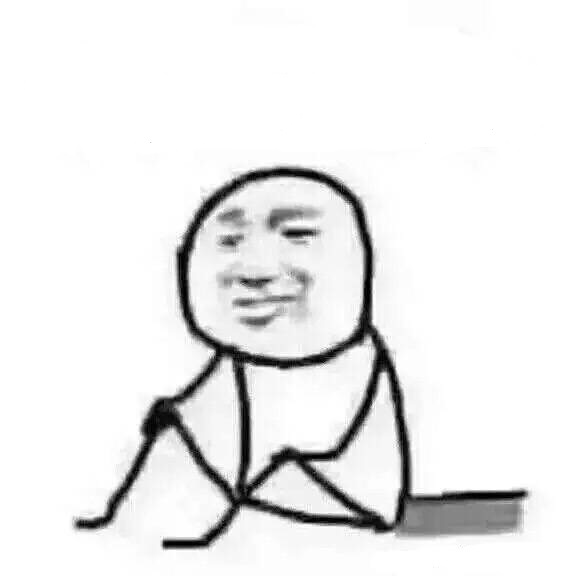
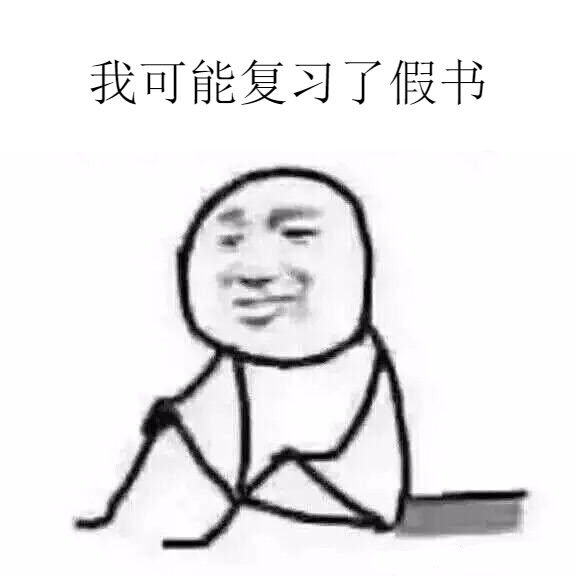
fake

diff --git a/fake/index.html b/fake/index.html
@@ -17,9 +17,9 @@
     <canvas id="the-canvas" width="576" height="576">
     </canvas>
     <div>
-      <input type="text" id="text">
+      <input type="text" id="text" placeholder="扁桃仁巧克力">
       <button id="generate">generate</button>
-      <a id="download">download</a>
+      <a href="#" id="download">download</a>
     </div>
     
     <script>
@@ -42,10 +42,16 @@
     }
 
     function updateText() {
+      var text = document.getElementById('text').value;
+      if (text.length > 10) {
+        text = '太长了（微笑'
+      } else if (text.length === 0) {
+        text = '太短了（微笑'
+      }
       deleteText();
       ctx.fillStyle = "black";
       ctx.font = '50px sans-serif';
-      var text = document.getElementById('text').value;
+      
       // console.log(text);
       var textWidth = ctx.measureText(text).width;
       // console.log(textWidth);
